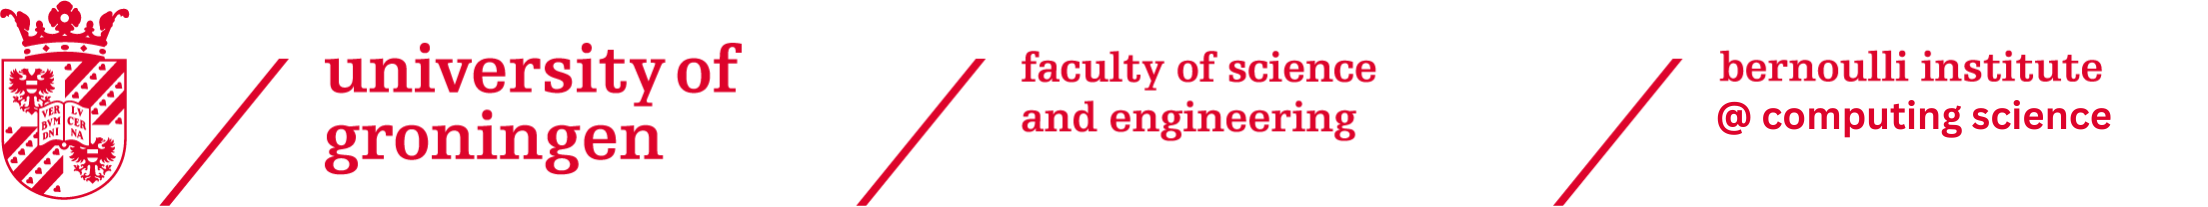
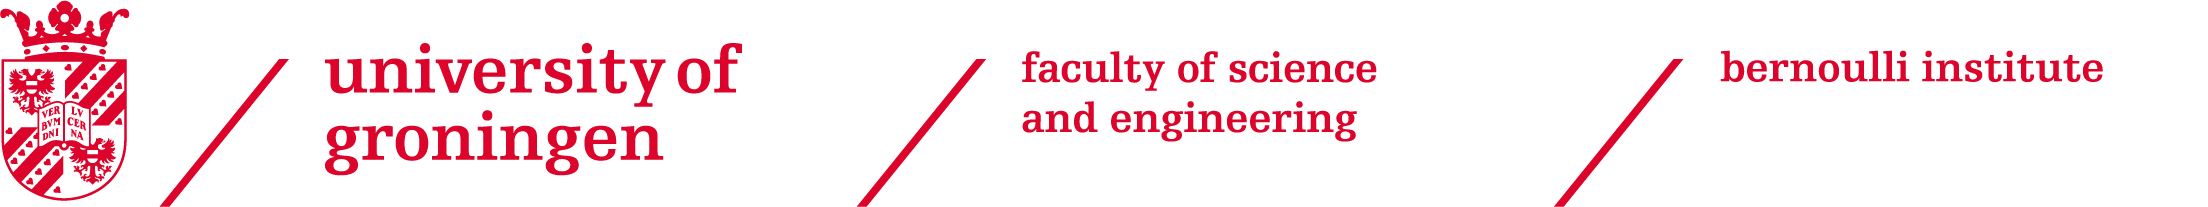
changed partners

diff --git a/components/Footer/index.tsx b/components/Footer/index.tsx
@@ -62,6 +62,8 @@ const Footer = (): ReactElement => {
                     Partner
                 </h1>
                 <div className='w-full flex flex-col justify-center gap-6 p-5 md:flex-row'>
+                    <div className='block justify-center'>
+                    <p className='text-red-600 text-xl'>Computing Science @ Bernoulli Institute</p>
                     {
                         config.partners.map((company, index) => (
                             <div className='p-2 md:h-14'>
@@ -72,6 +74,7 @@ const Footer = (): ReactElement => {
                             </div>
                         ))
                     }
+                    </div>
                 </div>
             </div>
 

diff --git a/components/Navbar/index.tsx b/components/Navbar/index.tsx
@@ -5,7 +5,7 @@ import PrepLink from '../utils/PrepLink';
 
 const Navbar = (): ReactElement => {
 
-    const links = [ 'ContestWebsite', 'SL', 'Rules', 'Schedule', 'Location', 'Register']
+    const links = [ 'SL', 'Rules', 'Schedule', 'Location']
 
     return (
         <nav className="flex flex-row px-8 py-4 max-sm:px-2">
